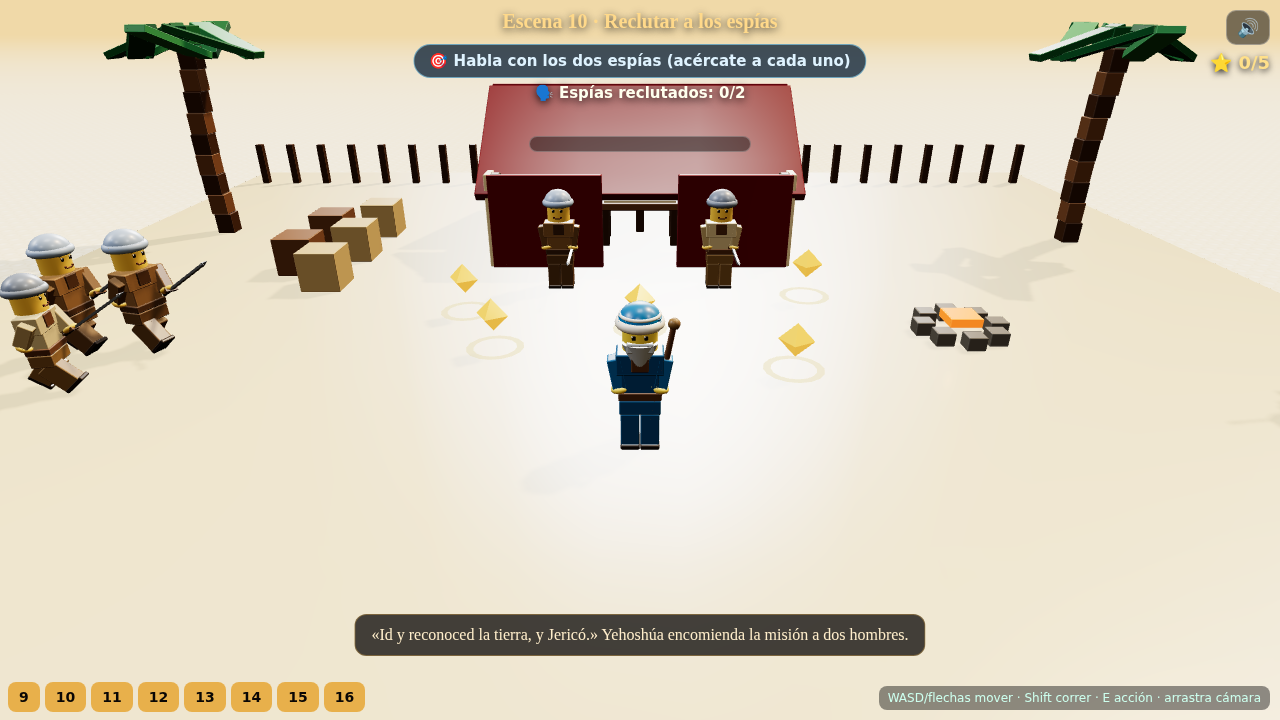
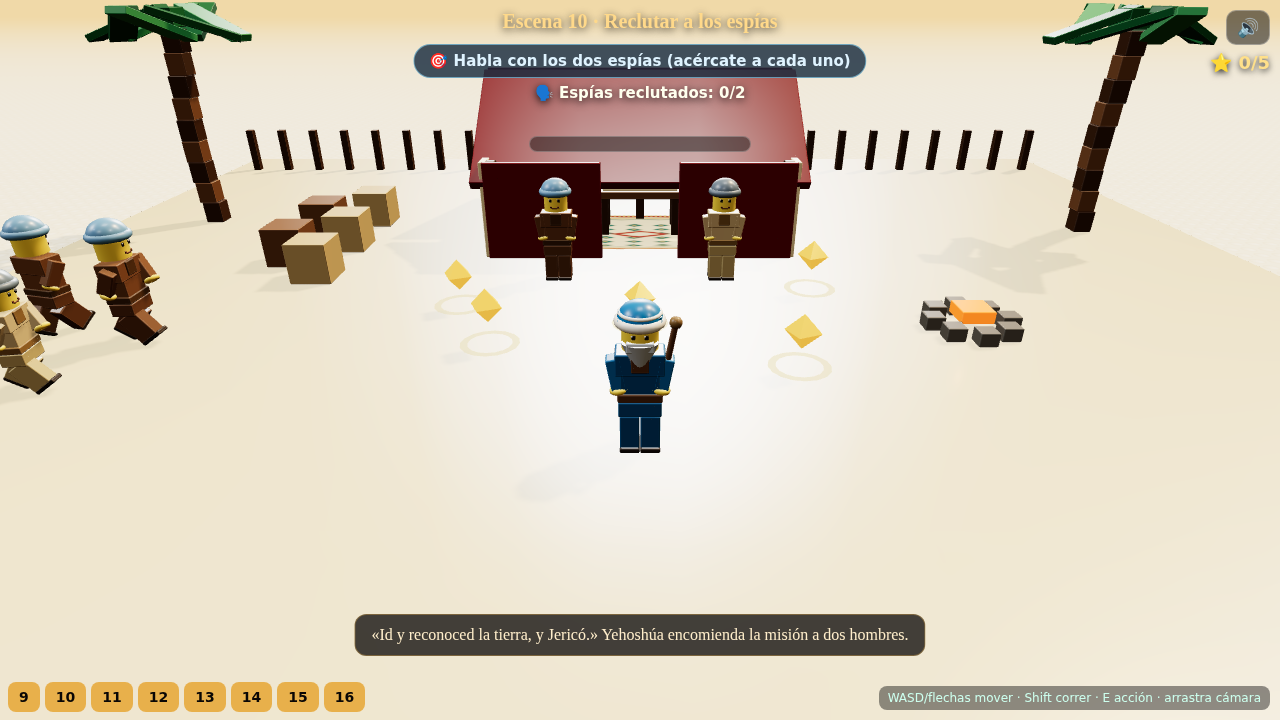
min05: al dia con los demas — skins canonicos de campamento + kilim + respuestas al integrador
Tras revisar el trabajo de los otros hilos:
- Re-adopto la ULTIMA MinifigureFactory del MUÑEQUERO (cordon de Rahab afinado +
  SPY_CAMP_SKIN/SPY2_CAMP_SKIN). skins.ts usa ya esas variantes de campamento
  canonicas (escenas 9-11), en vez de mis locales.
- Adopto textiles.ts (kilim del lead/muñequero, verbatim, sin duplicar) y pongo
  ALFOMBRAS DE KILIM en las carpas (esc. 10 y 12) para subir el liston de detalle.
- Coordinacion: respondo al integrador (jugador por escena via def.jugador:
  9-10 yoshua, 11 spy_camp, 12-16 spy; audio narracion_min5-10+BEAT_LOCAL; hooks
  cinematicos opcionales) y documento el recurso 'a veces el audio manda'.

Claude-Session: https://claude.ai/code/session_01CGC23cVs8LDrE5f5T9bipT

diff --git a/mundo-ladrillos/src/scenes/min00/textiles.ts b/mundo-ladrillos/src/scenes/min00/textiles.ts
@@ -1,0 +1,64 @@
+import * as THREE from 'three';
+
+/**
+ * Textiles de ladrillo con nivel de detalle "de verdad": alfombras de kilim y
+ * telas con patrón dibujado (bordes en zigzag, campo de rombos, medallón,
+ * flecos). Técnica de textura procedural inspirada en el escondite de la
+ * alfombra del MUÑEQUERO (`rug-hide.ts`), generalizada con paleta variable.
+ */
+export interface KilimPal {
+  bg: string; b1: string; b2: string; b3: string; rombo: string; oro: string;
+}
+
+export const KILIM_PALS: KilimPal[] = [
+  { bg: '#e7d3a6', b1: '#9c3b2a', b2: '#caa14a', b3: '#2f6b5a', rombo: '#2f6b5a', oro: '#caa14a' }, // rojo/verde
+  { bg: '#e7d3a6', b1: '#2f5fb0', b2: '#caa14a', b3: '#7a3f9a', rombo: '#2f5fb0', oro: '#d9ad3c' }, // azul/púrpura
+  { bg: '#efe0c0', b1: '#a05a2c', b2: '#caa14a', b3: '#7a3b12', rombo: '#a05a2c', oro: '#d9ad3c' }, // terracota
+  { bg: '#e3ddc8', b1: '#5a6b3a', b2: '#caa14a', b3: '#9c3b2a', rombo: '#5a6b3a', oro: '#caa14a' }  // oliva/rojo
+];
+
+/** Textura tejida de kilim (patrón dibujado en canvas). */
+export function kilimTexture(pal: KilimPal): THREE.CanvasTexture {
+  const c = document.createElement('canvas'); c.width = 256; c.height = 384;
+  const x = c.getContext('2d')!;
+  x.fillStyle = pal.bg; x.fillRect(0, 0, 256, 384);
+  const border = (col: string, inset: number, w: number): void => {
+    x.strokeStyle = col; x.lineWidth = w; x.strokeRect(inset, inset, 256 - inset * 2, 384 - inset * 2);
+  };
+  border(pal.b1, 10, 14); border(pal.b2, 26, 6); border(pal.b3, 36, 5);
+  // campo de rombos con centro dorado
+  for (let ry = 60; ry < 330; ry += 46) {
+    for (let rx = 46; rx < 220; rx += 46) {
+      x.fillStyle = ((rx + ry) % 92 === 0) ? pal.b1 : pal.rombo;
+      x.beginPath(); x.moveTo(rx, ry - 16); x.lineTo(rx + 16, ry); x.lineTo(rx, ry + 16); x.lineTo(rx - 16, ry); x.closePath(); x.fill();
+      x.fillStyle = pal.oro; x.fillRect(rx - 3, ry - 3, 6, 6);
+    }
+  }
+  // medallón central (rombo doble)
+  x.fillStyle = pal.b1; x.beginPath(); x.moveTo(128, 150); x.lineTo(180, 192); x.lineTo(128, 234); x.lineTo(76, 192); x.closePath(); x.fill();
+  x.fillStyle = pal.bg; x.beginPath(); x.moveTo(128, 168); x.lineTo(160, 192); x.lineTo(128, 216); x.lineTo(96, 192); x.closePath(); x.fill();
+  // flecos arriba y abajo
+  x.strokeStyle = pal.b2; x.lineWidth = 3;
+  for (let fx = 12; fx < 256; fx += 8) {
+    x.beginPath(); x.moveTo(fx, 372); x.lineTo(fx, 384); x.stroke();
+    x.beginPath(); x.moveTo(fx, 0); x.lineTo(fx, 12); x.stroke();
+  }
+  const t = new THREE.CanvasTexture(c); t.colorSpace = THREE.SRGBColorSpace; t.anisotropy = 4;
+  return t;
+}
+
+/** Alfombra de kilim tendida en el suelo (con leve arruga en las esquinas). */
+export function buildRug(w: number, h: number, pal: KilimPal): THREE.Mesh {
+  const geo = new THREE.PlaneGeometry(w, h, 8, 10);
+  const pos = geo.attributes.position;
+  for (let i = 0; i < pos.count; i++) {
+    const px = pos.getX(i), py = pos.getY(i);
+    const edge = Math.max(Math.abs(px) / (w / 2), Math.abs(py) / (h / 2));
+    pos.setZ(i, Math.pow(edge, 3) * 0.18 + Math.sin(px * 3 + py * 2) * 0.02); // esquinas levantadas
+  }
+  geo.computeVertexNormals();
+  const mat = new THREE.MeshStandardMaterial({ map: kilimTexture(pal), roughness: 0.95, side: THREE.DoubleSide });
+  const rug = new THREE.Mesh(geo, mat);
+  rug.rotation.x = -Math.PI / 2; rug.position.y = 0.03; rug.receiveShadow = true;
+  return rug;
+}

diff --git a/mundo-ladrillos/src/scenes/min05/skins.ts b/mundo-ladrillos/src/scenes/min05/skins.ts
@@ -1,44 +1,23 @@
 import {
-  MinifigureSkin, SPY_SKIN, SPY2_SKIN, YOSHUA_SKIN, GUARD_SKIN, GUARD_CHIEF_SKIN
+  MinifigureSkin, SPY_SKIN, SPY2_SKIN, YOSHUA_SKIN, GUARD_SKIN, GUARD_CHIEF_SKIN,
+  SPY_CAMP_SKIN, SPY2_CAMP_SKIN
 } from '../../characters/MinifigureFactory';
 
 /**
- * Skins del tramo 5–10. Ahora que están integrados los MUÑECOS NUEVOS
- * (MinifigureFactory con casco cónico, capa, bastón, rayas… nativos), los skins
- * de sigilo/guardias/Yehoshúa se toman DIRECTAMENTE de los canónicos de la peli.
- * Solo se mantienen locales las variantes de CAMPAMENTO de los espías (túnica +
- * turbante), que aún no existen como canónicas.
+ * Skins del tramo 5–10. TODOS canónicos del MUÑEQUERO (`MinifigureFactory`):
+ * casco cónico, capa, bastón, rayas, variantes de campamento… nativos. Aquí solo
+ * se reexportan con nombres del tramo para que las escenas no dependan de los
+ * nombres del catálogo.
  *
  * CLAVE narrativa (fiel a la peli): los espías van de CAMPAMENTO en las escenas
  * 9–11 y se ponen el TRAJE DE SIGILO en la escena 12. El look "ninja" del modo
  * infiltrado es FIEL al filme, con cara amable.
  */
-
-// ---- Canónicos (muñecos nuevos) ----
 export const YEHOSHUA_SKIN: MinifigureSkin = YOSHUA_SKIN;   // turbante cobalto, barba blanca, bastón
 export const ESPIA1_SIGILO: MinifigureSkin = SPY_SKIN;      // ninja azul pizarra, cara amable
 export const ESPIA2_SIGILO: MinifigureSkin = SPY2_SKIN;     // ninja gris asfalto
 export const GUARDIA_SKIN: MinifigureSkin = GUARD_SKIN;     // casco cónico + rayas + escudo + lanza
 export const JEFE_GUARDIA_SKIN: MinifigureSkin = GUARD_CHIEF_SKIN; // plumas + capa + alabarda
-
-// ---- Variantes de CAMPAMENTO de los espías (locales, escenas 9–11) ----
-export const ESPIA1_CAMP: MinifigureSkin = {
-  head: 0xf2c141,
-  torso: 0xcdba8f,   // túnica beige
-  belt: 0x6e4a2c,
-  legs: 0x8a6a3a,
-  arms: 0xbfa878,
-  hands: 0xf2c141,
-  headwear: 0x8290a4, // turbante gris azulado
-  headStyle: 'turban'
-};
-export const ESPIA2_CAMP: MinifigureSkin = {
-  head: 0xf2c141,
-  torso: 0x8f6a3e,   // túnica marrón
-  belt: 0x5a4028,
-  legs: 0x6f5230,
-  arms: 0x7a5a34,
-  hands: 0xf2c141,
-  headwear: 0x9fb6d4, // turbante azul claro
-  headStyle: 'turban'
-};
+// Variantes de CAMPAMENTO de los espías (canónicas del muñequero, escenas 9–11):
+export const ESPIA1_CAMP: MinifigureSkin = SPY_CAMP_SKIN;   // túnica beige + turbante gris-azulado
+export const ESPIA2_CAMP: MinifigureSkin = SPY2_CAMP_SKIN;  // túnica marrón + turbante azul claro

diff --git a/mundo-ladrillos/src/characters/MinifigureFactory.ts b/mundo-ladrillos/src/characters/MinifigureFactory.ts
@@ -108,6 +108,35 @@ export const SPY2_SKIN: MinifigureSkin = {
   accessory: 'sword'
 };
 
+/** Espía 1 — modo CAMPAMENTO (escenas 9–11, antes del traje de sigilo):
+ *  túnica beige, turbante gris azulado, cara amable. */
+export const SPY_CAMP_SKIN: MinifigureSkin = {
+  head: 0xf4d03f,
+  torso: 0xc9b083,      // túnica beige
+  belt: 0x8a6a3a,
+  legs: 0xb9a36f,
+  arms: 0xc9b083,
+  hands: 0xf4d03f,
+  headwear: 0x6f7f8c,   // turbante gris azulado
+  headStyle: 'turban',
+  emotion: 'happy',
+  accessory: 'none'
+};
+
+/** Espía 2 — modo CAMPAMENTO: túnica marrón, turbante azul claro. */
+export const SPY2_CAMP_SKIN: MinifigureSkin = {
+  head: 0xf4d03f,
+  torso: 0x7a5230,      // túnica marrón
+  belt: 0x5a3f22,
+  legs: 0x6e4a2c,
+  arms: 0x7a5230,
+  hands: 0xf4d03f,
+  headwear: 0x6f9fc4,   // turbante azul claro
+  headStyle: 'turban',
+  emotion: 'happy',
+  accessory: 'none'
+};
+
 /** Rahab: mujer de rasgos suaves; melena plateada larga, vestido humilde con
  *  falda acampanada, cara amable. */
 export const RAHAB_SKIN: MinifigureSkin = {
@@ -219,6 +248,8 @@ export const RABBI_SKIN: MinifigureSkin = {
 export const CHARACTER_SKINS: Record<string, MinifigureSkin> = {
   espia: SPY_SKIN,
   espia2: SPY2_SKIN,
+  espiaCamp: SPY_CAMP_SKIN,
+  espia2Camp: SPY2_CAMP_SKIN,
   yehoshua: YOSHUA_SKIN,
   rahab: RAHAB_SKIN,
   guardia: GUARD_SKIN,
@@ -363,13 +394,13 @@ export class Minifigure {
       this.root.add(this.box(0.14, 0.62, 0.06, s.tie, 0, 2.82, 0.49));  // corbata
     }
 
-    // Cordón/faja en banda diagonal (cordón rojo carmesí de Rahab)
+    // Cordón rojo carmesí de Rahab: fino, cruzado del hombro a la cadera.
     if (s.cord !== undefined) {
-      const band = this.box(0.15, 1.9, 0.2, s.cord, 0.06, 2.5, 0.42);
-      band.rotation.z = 0.35;
+      const band = this.box(0.09, 1.95, 0.12, s.cord, 0.05, 2.48, 0.45);
+      band.rotation.z = 0.32;
       this.root.add(band);
-      const loop = new THREE.TorusGeometry(0.15, 0.05, 8, 16);
-      this.root.add(this.mesh(loop, s.cord, 0.44, 1.72, 0.42)); // rollo colgando en la cadera
+      const loop = new THREE.TorusGeometry(0.12, 0.04, 8, 16);
+      this.root.add(this.mesh(loop, s.cord, 0.42, 1.66, 0.45)); // pequeño rollo en la cadera
     }
 
     // Falda / vestido acampanado (rasgo fem): tronco de cono sobre la cadera.

diff --git a/mundo-ladrillos/src/scenes/min05/escena10_reclutar_espias.ts b/mundo-ladrillos/src/scenes/min05/escena10_reclutar_espias.ts
@@ -5,6 +5,7 @@ import { buildTent, buildPalm, studdedPlate, brickBox } from './props/BrickProps
 import { Npc } from './props/Npc';
 import { Wanderers } from './props/Wanderers';
 import { Collectibles } from './props/Collectibles';
+import { buildRug, KILIM_PALS } from '../min00/textiles';
 import { ESPIA1_CAMP, ESPIA2_CAMP } from './skins';
 
 /**
@@ -36,6 +37,8 @@ export const escena10: Min05Scene = {
     const tent = buildTent(plastic, BrickPalette.DARK_RED, 16, 14, true);
     tent.position.set(0, 0, 12); tent.rotation.y = Math.PI; group.add(tent);
     ctx.addObstacle(0, 14, 8, 5);
+    // alfombra de kilim en el suelo de la tienda (detalle "de verdad", técnica del lead/muñequero)
+    const rug = buildRug(9, 6.5, KILIM_PALS[0]); rug.position.set(0, 0.03, 9); group.add(rug);
 
     // mesa de mapas
     group.add(brickBox(plastic, 5, 0.4, 3, BrickPalette.BROWN, 0, 2.4, 10));

diff --git a/mundo-ladrillos/src/scenes/min05/escena12_trajes_sigilo.ts b/mundo-ladrillos/src/scenes/min05/escena12_trajes_sigilo.ts
@@ -5,6 +5,7 @@ import { buildTent, buildPalm, studdedPlate, brickBox } from './props/BrickProps
 import { buildLantern } from './props/NightAmbience';
 import { Npc } from './props/Npc';
 import { Collectibles } from './props/Collectibles';
+import { buildRug, KILIM_PALS } from '../min00/textiles';
 import { ESPIA2_CAMP, ESPIA2_SIGILO } from './skins';
 
 /**
@@ -36,6 +37,8 @@ export const escena12: Min05Scene = {
     const tent = buildTent(plastic, BrickPalette.DARK_BLUE, 18, 16, true);
     tent.position.set(0, 0, 12); tent.rotation.y = Math.PI; group.add(tent);
     ctx.addObstacle(0, 15, 9, 4);
+    // alfombra de kilim (azul/púrpura) en la carpa de los espías
+    const rug = buildRug(10, 7, KILIM_PALS[1]); rug.position.set(0, 0.03, 9); group.add(rug);
 
     // perchero con dos trajes colgados (el objetivo)
     const rack = new THREE.Group();

diff --git a/mundo-ladrillos/coordinacion/min05-10.md b/mundo-ladrillos/coordinacion/min05-10.md
@@ -60,6 +60,21 @@ suyo (no habrá conflicto); mis escenas quedan listas.
 - PRIVACIDAD: `clips.ts` con el audio se usa SOLO al construir la entrega (swap
   temporal desde la rama de assets); NO se commitea. El repo queda con clips vacío.
 
+## ✅ Respuestas al INTEGRADOR
+- **¿Quién es el jugador en 9–11?** Ya viene en cada escena en `def.jugador`
+  (léelo, no lo fuerces): **9 = `yoshua`** (contempla el Jordán), **10 = `yoshua`**
+  (reparte la misión), **11 = `spy_camp`** (los espías se acercan a la muralla),
+  **12–16 = `spy`** (sigilo). En la 12 hay cambio de traje en caliente
+  (`ctx.setPlayerSkin('spy')`).
+- **Skins:** ya uso los CANÓNICOS del muñequero, incluidas sus variantes
+  `SPY_CAMP_SKIN`/`SPY2_CAMP_SKIN` (re-adopté su `MinifigureFactory` al día).
+- **Audio de mi tramo (recordatorio):** `narracion_min5-10` (spine) + `BEAT_LOCAL`
+  (registry) por escena. NO uses `bso_min5-10`/`voz`/`fondoClip` (los quité).
+- **Cinemáticas** (avión, revelados): mis escenas llaman `ctx.cameraFocus?`/
+  `ctx.cameraReveal?` (opcionales). Si las implementas en tu orquestador (como en
+  mi `preview.ts`: estado `cine`, congelar input, enfocar objeto o `doReveal`),
+  el niño ve el avión y los planos de establecimiento en el juego completo.
+
 ## 🎬 RECURSO reutilizable: "a veces el audio manda" (cámara cinemática)
 Idea de dirección del usuario: el juego es jugable por defecto (tú mandas), pero
 en MOMENTOS CLAVE la cámara toma el control unos segundos (sincronizada con la
